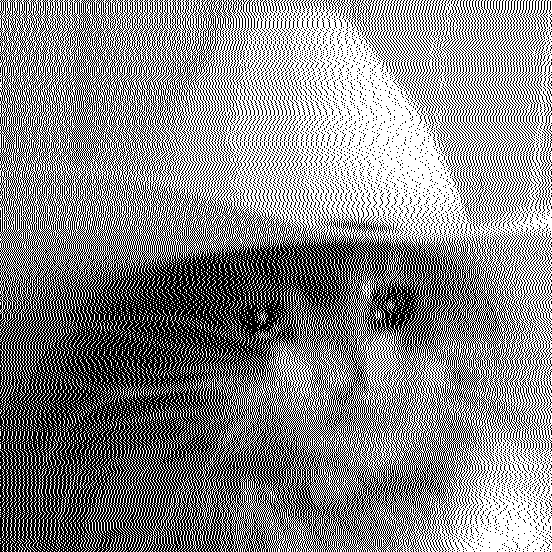
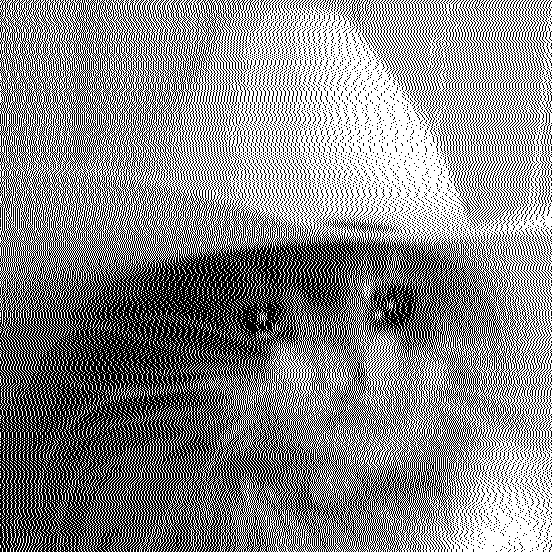
Code reorganization

diff --git a/src/dither/errorpropagate.rs b/src/dither/errorpropagate.rs
@@ -1,8 +1,6 @@
 use image::{ImageBuffer, Rgb};
 
-use crate::utils::numops::map_to_2d;
-
-use super::pixel::{MonoPixel, TWO_BIT, RgbPixel};
+use crate::{utils::numops::map_to_2d, colour::pixel::{MonoPixel, TWO_BIT, RgbPixel}};
 
 pub fn error_propagate_through_pixels<const N: usize>(
     image: &mut ImageBuffer<Rgb<u8>, Vec<u8>>,
@@ -15,7 +13,7 @@ pub fn error_propagate_through_pixels<const N: usize>(
         let (x, y) = map_to_2d(i, xdim);
         let error = {
             let pixel = image.get_pixel_mut(x, y);
-            let mono = MonoPixel::mono_from(pixel);
+            let mono = MonoPixel::from(&*pixel);
             let quantized = mono.quantize(TWO_BIT);
             pixel[0] = quantized.get();
             pixel[1] = quantized.get();
@@ -57,7 +55,7 @@ pub fn error_propagate_through_pixels_rgb<const N: usize>(
         let (x, y) = map_to_2d(i, xdim);
         let error = {
             let pixel = image.get_pixel_mut(x, y);
-            let rgb = RgbPixel::rgb_from(pixel);
+            let rgb = RgbPixel::from(&*pixel);
             let quantized = rgb.quantize(palette);
             (pixel[0], pixel[1], pixel[2]) = quantized.get();
             rgb.get_error(&quantized)
@@ -117,8 +115,8 @@ macro_rules! error_prop_mod {
                         error_propagate_through_pixels,
                         error_propagate_through_pixels_rgb
                     },
-                    pixel::{RgbPixel},
-                }
+                },
+                colour::pixel::{RgbPixel}
             };    
 
             $(

diff --git a/src/colour/pixel.rs b/src/colour/pixel.rs
@@ -16,6 +16,16 @@ impl From<u8> for MonoPixel {
     }
 }
 
+impl From<&Rgb<u8>> for MonoPixel {
+    fn from(value: &Rgb<u8>) -> Self {
+        let [r, g, b] = value.0;
+        let luminance = (r.max(g).max(b) as u16 + r.min(g).min(b) as u16) / 2;
+        MonoPixel(
+            luminance as u8
+        )
+    }
+}
+
 impl From<(u8, u8, u8)> for RgbPixel {
     fn from(value: (u8, u8, u8)) -> Self {
         RgbPixel(value.0, value.1, value.2)
@@ -37,13 +47,14 @@ impl From<&str> for RgbPixel {
     }
 }
 
-impl MonoPixel {
-    pub fn mono_from(pixel: &Rgb<u8>) -> MonoPixel {
-        MonoPixel(
-            average(pixel.channels()) as u8
-        )
+impl From<&Rgb<u8>> for RgbPixel {
+    fn from(value: &Rgb<u8>) -> Self {
+        let [r, g, b] = value.0;
+        RgbPixel(r, g, b)
     }
+}
 
+impl MonoPixel {
     pub fn add_error(self, error: i32) -> MonoPixel {
         MonoPixel((self.0 as i32 + error).min(255).max(0) as u8)
     }
@@ -75,15 +86,6 @@ impl MonoPixel {
 }
 
 impl RgbPixel {
-    pub fn rgb_from(pixel: &Rgb<u8>) -> RgbPixel {
-        let channels = pixel.channels();
-        RgbPixel(
-            channels[0],
-            channels[1],
-            channels[2]
-        )
-    }
-
     pub fn add_error(self, error: (i32, i32, i32)) -> RgbPixel {
         RgbPixel(
             ((self.0 as i32) + error.0).min(255).max(0) as u8,

diff --git a/src/dither/algorithms.rs b/src/dither/algorithms.rs
@@ -1,7 +1,9 @@
 use image::DynamicImage;
 
+use crate::colour::pixel::RgbPixel;
+
 use super::{
-    basic::{basic_mono_dither, basic_colour_dither}, bayer::{bayer_mono_dither, bayer_dither}, pixel::RgbPixel, errorpropagate::{floydsteinberg::{floyd_steinberg_mono_dither, floyd_steinberg_rgb_dither}, jarvisjudiceninke::{jarvis_judice_ninke_mono_dither, jarvis_judice_ninke_rgb_dither}, stucki::{stucki_mono_dither, stucki_rgb_dither}, atkinson::{atkinson_mono_dither, atkinson_rgb_dither}, burkes::{burkes_mono_dither, burkes_rgb_dither}, sierra::{sierra_mono_dither, two_row_sierra_mono_dither, sierra_lite_mono_dither, sierra_rgb_dither, two_row_sierra_rgb_dither, sierra_lite_rgb_dither}}};
+    basic::{basic_mono_dither, basic_colour_dither}, bayer::{bayer_mono_dither, bayer_dither}, errorpropagate::{floydsteinberg::{floyd_steinberg_mono_dither, floyd_steinberg_rgb_dither}, jarvisjudiceninke::{jarvis_judice_ninke_mono_dither, jarvis_judice_ninke_rgb_dither}, stucki::{stucki_mono_dither, stucki_rgb_dither}, atkinson::{atkinson_mono_dither, atkinson_rgb_dither}, burkes::{burkes_mono_dither, burkes_rgb_dither}, sierra::{sierra_mono_dither, two_row_sierra_mono_dither, sierra_lite_mono_dither, sierra_rgb_dither, two_row_sierra_rgb_dither, sierra_lite_rgb_dither}}};
 
 pub enum Algorithms<'a> {
     // Mono

diff --git a/src/lib.rs b/src/lib.rs
@@ -6,9 +6,6 @@ pub mod dither;
 /// colour
 pub mod colour;
 
-/// image
-pub mod image;
-
 /// utils
 pub mod utils;
 
@@ -16,12 +13,9 @@ pub mod utils;
 mod test {
     use image::{ImageResult, DynamicImage};
 
-    use crate::{image::load_image, dither::pixel::RgbPixel};
+    use crate::{utils::image::load_image, colour::{pixel::RgbPixel, palettes}};
 
-    use super::dither::{
-        algorithms::Algorithms as Dithers,
-        palettes
-    };
+    use super::dither::algorithms::Algorithms as Dithers;
 
     #[test]
     fn algorithms_test() -> ImageResult<()>{
@@ -44,10 +38,10 @@ mod test {
         //     "000000",
         // ].map(|tuple| tuple.into());
     
-        // mono(&image)?;
+        mono(&image)?;
         // colour_websafe(&image)?;                              // takes a long time due to large palette
         // colour_eightbit(&image)?;                             // significantly faster
-        colour(&image, palette, Some("-custom-palette"))?;    // custom palettes, uncomment a palette above for examples
+        // colour(&image, palette, Some("-custom-palette"))?;    // custom palettes, uncomment a palette above for examples
     
         Ok(())
     }

diff --git a/src/dither/basic.rs b/src/dither/basic.rs
@@ -1,13 +1,13 @@
-use image::{DynamicImage};
+use image::DynamicImage;
 
-use super::pixel::{MonoPixel, TWO_BIT, RgbPixel};
+use crate::colour::pixel::{MonoPixel, TWO_BIT, RgbPixel};
 
 pub fn basic_mono_dither(image: DynamicImage) -> DynamicImage {
     let mut error = 0;
     let mut rgb8_image = image.into_rgb8();
 
     for pixel in rgb8_image.pixels_mut() {
-        let mono = MonoPixel::mono_from(pixel).add_error(error);
+        let mono = MonoPixel::from(&*pixel).add_error(error);
         let quantized = mono.quantize(TWO_BIT);
 
         error = mono.get_error(&quantized);
@@ -27,7 +27,7 @@ pub fn basic_colour_dither(image: DynamicImage, palette: &[RgbPixel]) -> Dynamic
     let mut rgb8_image = image.into_rgb8();
 
     for pixel in rgb8_image.pixels_mut() {
-        let rgb = RgbPixel::rgb_from(pixel).add_error((
+        let rgb = RgbPixel::from(&*pixel).add_error((
             error.0,
             error.1,
             error.2,

diff --git a/src/dither/bayer.rs b/src/dither/bayer.rs
@@ -1,9 +1,7 @@
 use image::{DynamicImage, Pixel};
 use ndarray::{Array, Dim, concatenate, Axis};
 
-use crate::utils::numops::average;
-
-use super::pixel::RgbPixel;
+use crate::{utils::numops::average, colour::pixel::RgbPixel};
 
 fn dither_matrix(n: usize) -> Array<f64, Dim<[usize; 2]>> {
     if n == 1 { return Array::<f64, _>::zeros((1, 1)) }
@@ -56,7 +54,7 @@ pub fn bayer_dither(image: DynamicImage, dither_size: usize, palette: &[RgbPixel
         let xs = x as usize;
         let ys = y as usize;
 
-        let rgb = RgbPixel::rgb_from(pixel);
+        let rgb = RgbPixel::from(&*pixel);
 
         let offset = ((255.0 / 3.0) * (matrix.get((xs % dither_size, ys % dither_size)).unwrap_or(&0.0) - 0.5)) as i32;
 

diff --git a/src/colour/algorithms.rs b/src/colour/algorithms.rs
@@ -1,9 +1,6 @@
 use image::DynamicImage;
 
-use crate::dither::pixel::RgbPixel;
-
-
-
+use super::pixel::RgbPixel;
 pub enum Algorithms<'a> {
     Hue(u16),
     Contrast(u16),

diff --git a/src/dither/mod.rs b/src/dither/mod.rs
@@ -1,6 +1,4 @@
 pub mod algorithms;
-pub mod pixel;
-pub mod palettes;
 pub mod errorpropagate;
 
 mod basic;

diff --git a/src/colour/mod.rs b/src/colour/mod.rs
@@ -1,1 +1,3 @@
 pub mod algorithms;
+pub mod pixel;
+pub mod palettes;

diff --git a/src/utils/mod.rs b/src/utils/mod.rs
@@ -1,1 +1,2 @@
 pub mod numops;
+pub mod image;
